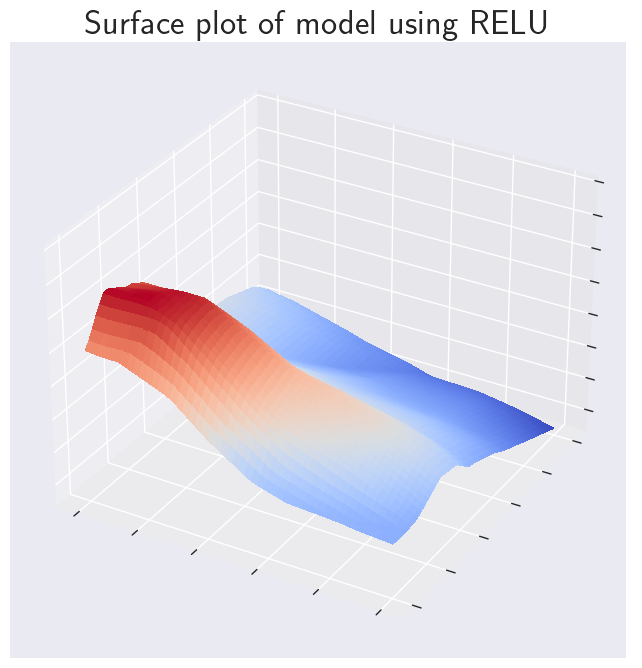
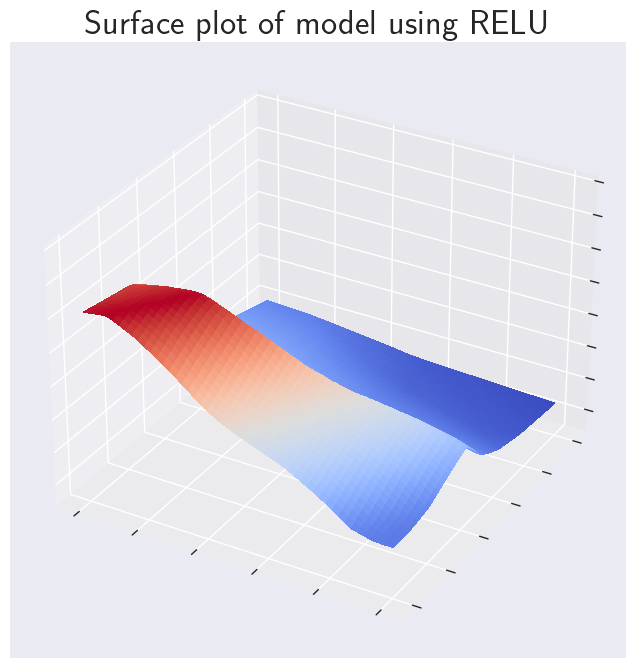
fikset main_NN

Changed region(s): [[0.1246, 0.4192, 0.8723, 0.8383], [0.405, 0.5988, 0.4361, 0.6287]]

diff --git a/Project2/Code/main_NN.py b/Project2/Code/main_NN.py
@@ -32,77 +32,73 @@ X[:,1] = y
 # Produce target data
 z = np.ravel(FrankeFunction(xx, yy))
 z = np.reshape(z, (len(z), 1))
-n_layers = 2
-n_hidden_neurons = 15
+n_layers_list = [1]
+n_hidden_neurons_list = [10]
 n_inputs = X.shape[0]
 n_features = X.shape[1]
 n_outputs = n_inputs
 
 epochs = 3000
 eta = 0.0001
-lmbd = 0.0001
+lmbd_list = [1e-4]
+batch_size_list = [500]
 gamma = 0.9
 batch_size = 1000
-t0, t1 = 0.1, 100 # Paramters used in learning rate.
+tol = 0.014
+t0, t1 = [5e-4], 100 # Paramters used in learning rate.
+learning_schedule=lambda t,t0,t1: t0 #learning_schedule: constant learning rate=t0
 
 start = time.time()
 X_train, X_test, z_train, z_test = train_test_split(X, z, test_size=0.2, random_state=1)
 
-sigmoid_model = Sigmoid(t0, t1, lmbd, gamma, n_layers, n_hidden_neurons, X_train, 'regression')
-sigmoid_model.train(X_train, z_train, epochs, batch_size, learning_schedule=lambda t,t0,t1: t0)
-time_sigmoid = time.time()
-z_h, a_h, z_o_sigmoid, a_L = sigmoid_model.feed_forward(X_test)
-MSE_sigmoid = np.mean((z_test - z_o_sigmoid)**2)
-f.write(f'Sigmoid   |  {(time_sigmoid-start):.1f} | {MSE_sigmoid:.3f}|  {lmbd}  |     {eta}     |   {n_layers}    |        {n_hidden_neurons}         |   {epochs}   | \n')
+for lmbd in lmbd_list:
+    for batch_size in batch_size_list:
+        for n_layers in n_layers_list:
+            for n_hidden_neurons in n_hidden_neurons_list:
+                for eta in t0:
+                    start = time.time()
+                    sigmoid_model = Sigmoid(eta, t1, lmbd, gamma, tol, n_layers, n_hidden_neurons, X_train, 'regression')
+                    sigmoid_model.train(X_train, z_train, epochs, batch_size, learning_schedule)
+                    time_sigmoid = time.time()
+                    z_h, a_h, z_o_sigmoid, a_L = sigmoid_model.feed_forward(X_test)
+                    MSE_sigmoid = np.mean((z_test - z_o_sigmoid)**2)
+                    f.write(f'Sigmoid   |  {(time_sigmoid-start):.1f} | {MSE_sigmoid:.3f}|  {lmbd}  |     {eta}     |   {n_layers}    |        {n_hidden_neurons}         |   {epochs}   | \n')
+                    plot_surface(X, sigmoid_model, 'Sigmoid', epochs, n_layers, n_hidden_neurons, xx, yy, N)
 
-plot_surface(X, sigmoid_model, 'Sigmoid', epochs, n_layers, xx, yy, N)
-# plot_surface(X, TANH_model, 'tanh', epochs, n_layers, xx, yy, N)
+n_layers_list = [3]
+n_hidden_neurons_list = [10]
+t0, t1 = [5e-4], 100 # Paramters used in learning rate.
+lmbd_list = [1e-4]
+for lmbd in lmbd_list:
+    for batch_size in batch_size_list:
+        for n_layers in n_layers_list:
+            for n_hidden_neurons in n_hidden_neurons_list:
+                for eta in t0:
+                    start = time.time()
+                    TANH_model = Tang_hyp(eta, t1, lmbd, gamma, tol, n_layers, n_hidden_neurons, X_train, 'regression')
+                    TANH_model.train(X_train, z_train, epochs, batch_size, learning_schedule=lambda t,t0,t1: t0)
+                    z_h, a_h, z_o_tanh, a_L = TANH_model.feed_forward(X_test)
+                    time_tanh = time.time()
+                    MSE_tanh = np.mean((z_test - z_o_tanh)**2)
+                    f.write(f'Tanh      | {(time_tanh-start):.1f} | {MSE_tanh:.3f}|  {lmbd}  |     {eta}     |   {n_layers}    |        {n_hidden_neurons}         |   {epochs}   | \n')
+                    plot_surface(X, TANH_model, 'tanh', epochs, n_layers, n_hidden_neurons, xx, yy, N)
+
+t0, t1 = [1e-4], 100 # Paramters used in learning rate.
+lmbd_list = [5e-4]
+n_layers_list = [6]
+n_hidden_neurons_list = [15]
+for lmbd in lmbd_list:
+    for batch_size in batch_size_list:
+        for n_layers in n_layers_list:
+            for n_hidden_neurons in n_hidden_neurons_list:
+                for eta in t0:
+                    start = time.time()
+                    RELU_model = RELU(eta, t1, lmbd, gamma, tol, n_layers, n_hidden_neurons, X_train, 'regression')
+                    RELU_model.train(X_train, z_train, epochs, batch_size, learning_schedule=lambda t,t0,t1: t0)
+                    time_relu = time.time()
+                    z_h, a_h, z_o_relu, a_L = RELU_model.feed_forward(X_test)
+                    time_relu = time.time()
+                    MSE_relu = np.mean((z_test - z_o_relu)**2)
+                    f.write(f'Relu      | {(time_relu-start):.1f} | {MSE_relu:.3f}|  {lmbd}  |     {eta}     |   {n_layers}    |        {n_hidden_neurons}         |   {epochs}   | \n')
+                    plot_surface(X, RELU_model, 'RELU', epochs, n_layers, n_hidden_neurons, xx, yy, N)
 f.close()
-quit()
-
-TANH_model = Tang_hyp(t0, t1, lmbd, gamma, n_layers, n_hidden_neurons, X_train, 'regression')
-TANH_model.train(X_train, z_train, epochs, batch_size, learning_schedule=lambda t,t0,t1: t0)
-z_h, a_h, z_o_tanh, a_L = TANH_model.feed_forward(X_test)
-time_tanh = time.time()
-MSE_tanh = np.mean((z_test - z_o_tanh)**2)
-f.write(f'Tanh      | {(time_tanh-start):.1f} | {MSE_tanh:.3f}|  {lmbd}  |     {eta}     |   {n_layers}    |        {n_hidden_neurons}         |   {epochs}   | \n')
-
-
-eta = 0.001 # Learning rate
-RELU_model = RELU(t0, t1, lmbd, gamma, n_layers, n_hidden_neurons, X_train, 'regression')
-RELU_model.train(X_train, z_train, epochs, batch_size, learning_schedule=lambda t,t0,t1: t0)
-time_relu = time.time()
-z_h, a_h, z_o_relu, a_L = RELU_model.feed_forward(X_test)
-time_relu = time.time()
-MSE_relu = np.mean((z_test - z_o_relu)**2)
-f.write(f'Relu      | {(time_relu-start):.1f} | {MSE_relu:.3f}|  {lmbd}  |     {eta}     |   {n_layers}    |        {n_hidden_neurons}         |   {epochs}   | \n')
-
-ELU_model = ELU(t0, t1, lmbd, gamma, n_layers, n_hidden_neurons, X_train, 'regression')
-ELU_model.train(X_train, z_train, epochs, batch_size, learning_schedule=lambda t,t0,t1: t0)
-z_h, a_h, z_o_elu, a_L = ELU_model.feed_forward(X_test)
-time_elu = time.time()
-MSE_elu = np.mean((z_test - z_o_elu)**2)
-f.write(f'Elu       | {(time_elu-start):.1f} | {MSE_relu:.3f}|  {lmbd}  |     {eta}     |   {n_layers}    |        {n_hidden_neurons}         |   {epochs}   | \n')
-
-HS_model = Heaviside(t0, t1, lmbd, gamma, n_layers, n_hidden_neurons, X_train, 'regression')
-HS_model.train(X_train, z_train, epochs, batch_size, learning_schedule=lambda t,t0,t1: t0)
-z_h, a_h, z_o_HS, a_L = HS_model.feed_forward(X_test)
-time_HS = time.time()
-MSE_HS = np.mean((z_test - z_o_HS)**2)
-f.write(f'Heaviside | {(time_HS-start):.1f} | {MSE_relu:.3f}|  {lmbd}  |     {eta}     |   {n_layers}    |        {n_hidden_neurons}         |   {epochs}   | \n')
-
-Leaky_model = Leaky(t0, t1, lmbd, gamma, n_layers, n_hidden_neurons, X_train, 'regression')
-Leaky_model.train(X_train, z_train, epochs, batch_size, learning_schedule=lambda t,t0,t1: t0)
-z_h, a_h, z_o_leaky, a_L = Leaky_model.feed_forward(X_test)
-time_leaky = time.time()
-MSE_leaky = np.mean((z_test - z_o_leaky)**2)
-f.write(f'Leaky     | {(time_leaky-start):.1f} | {MSE_relu:.3f}|  {lmbd}  |     {eta}     |   {n_layers}    |        {n_hidden_neurons}         |   {epochs}   | \n')
-
-f.close()
-
-plot_surface(X, sigmoid_model, 'Sigmoid', epochs, n_layers, xx, yy, N)
-plot_surface(X, TANH_model, 'tanh', epochs, n_layers, xx, yy, N)
-plot_surface(X, RELU_model, 'RELU', epochs, n_layers, xx, yy, N)
-plot_surface(X, ELU_model, 'ELU', epochs, n_layers, xx, yy, N)
-plot_surface(X, Leaky_model, 'Leaky', epochs, n_layers, xx, yy, N)
-plot_surface(X, HS_model, 'Heaviside', epochs, n_layers, xx, yy, N)
